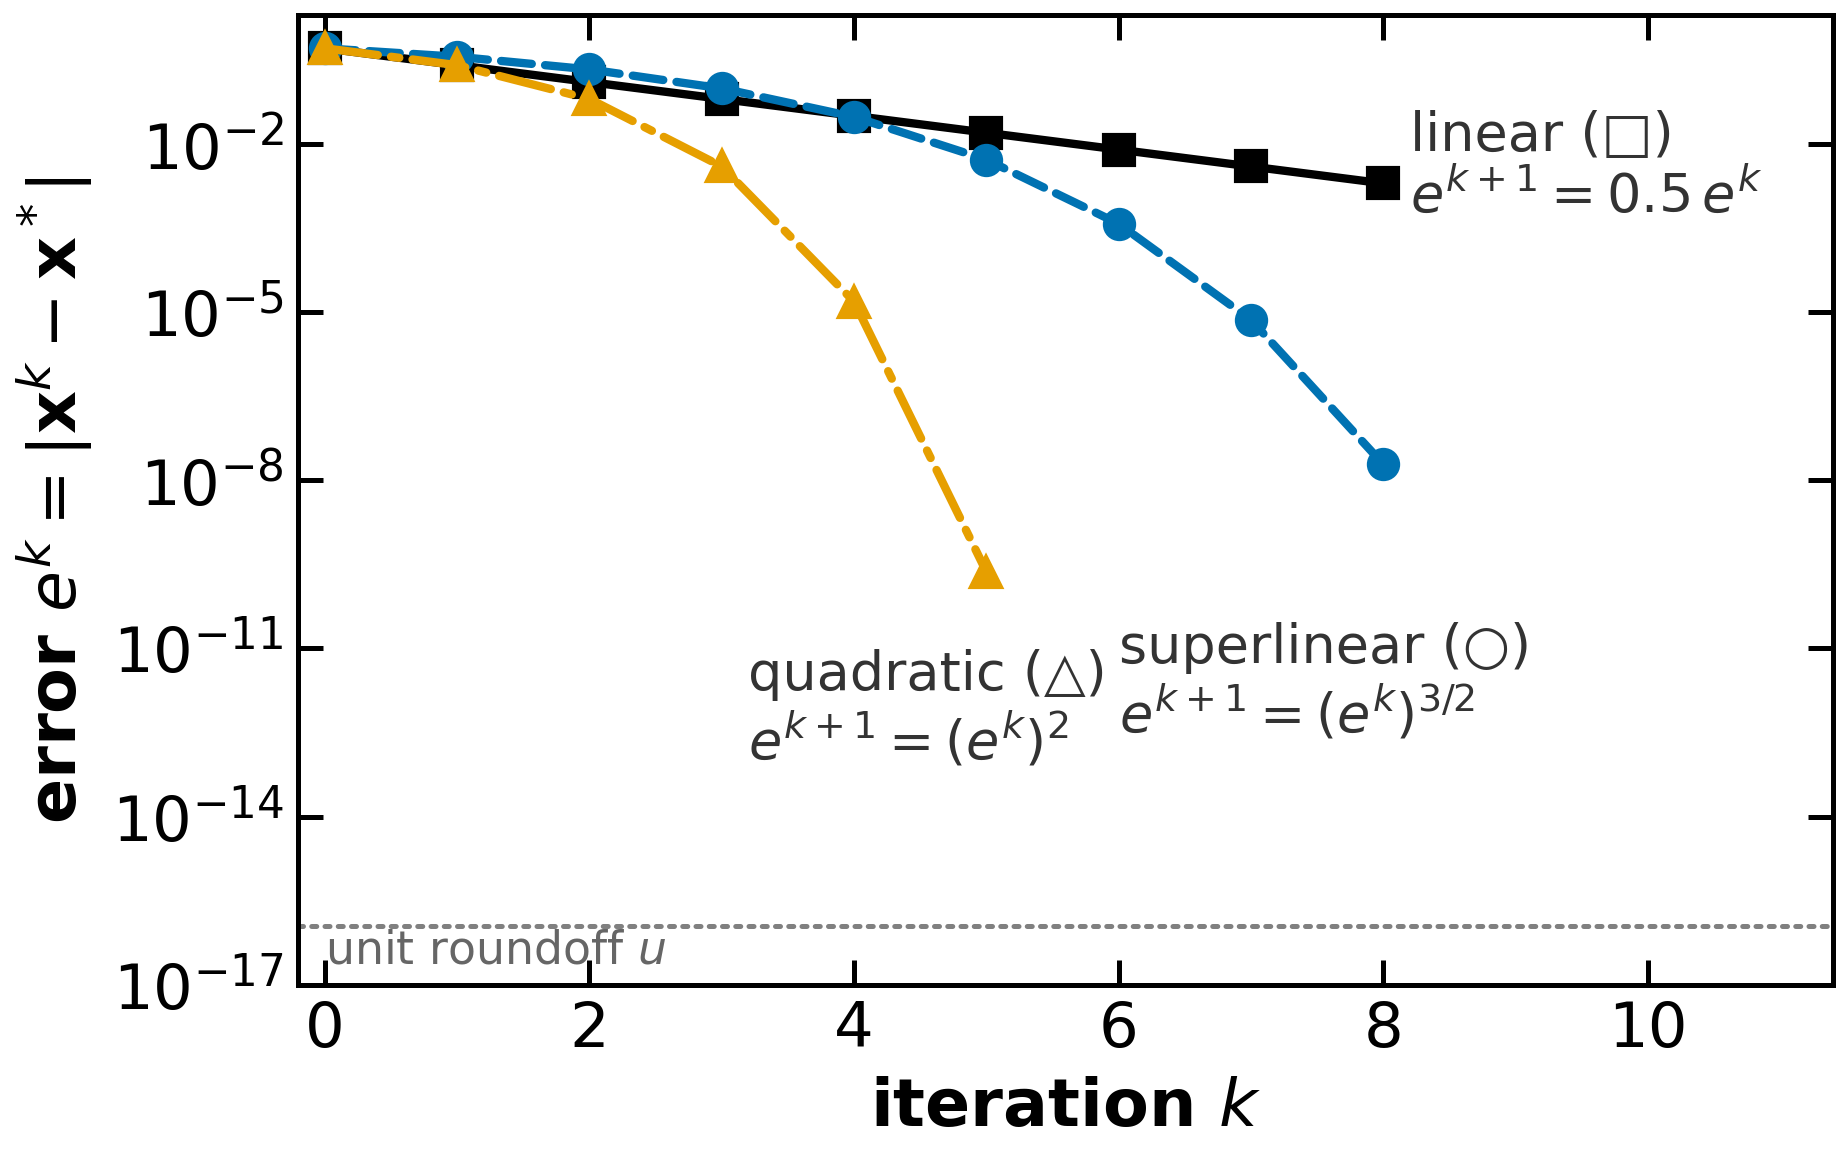
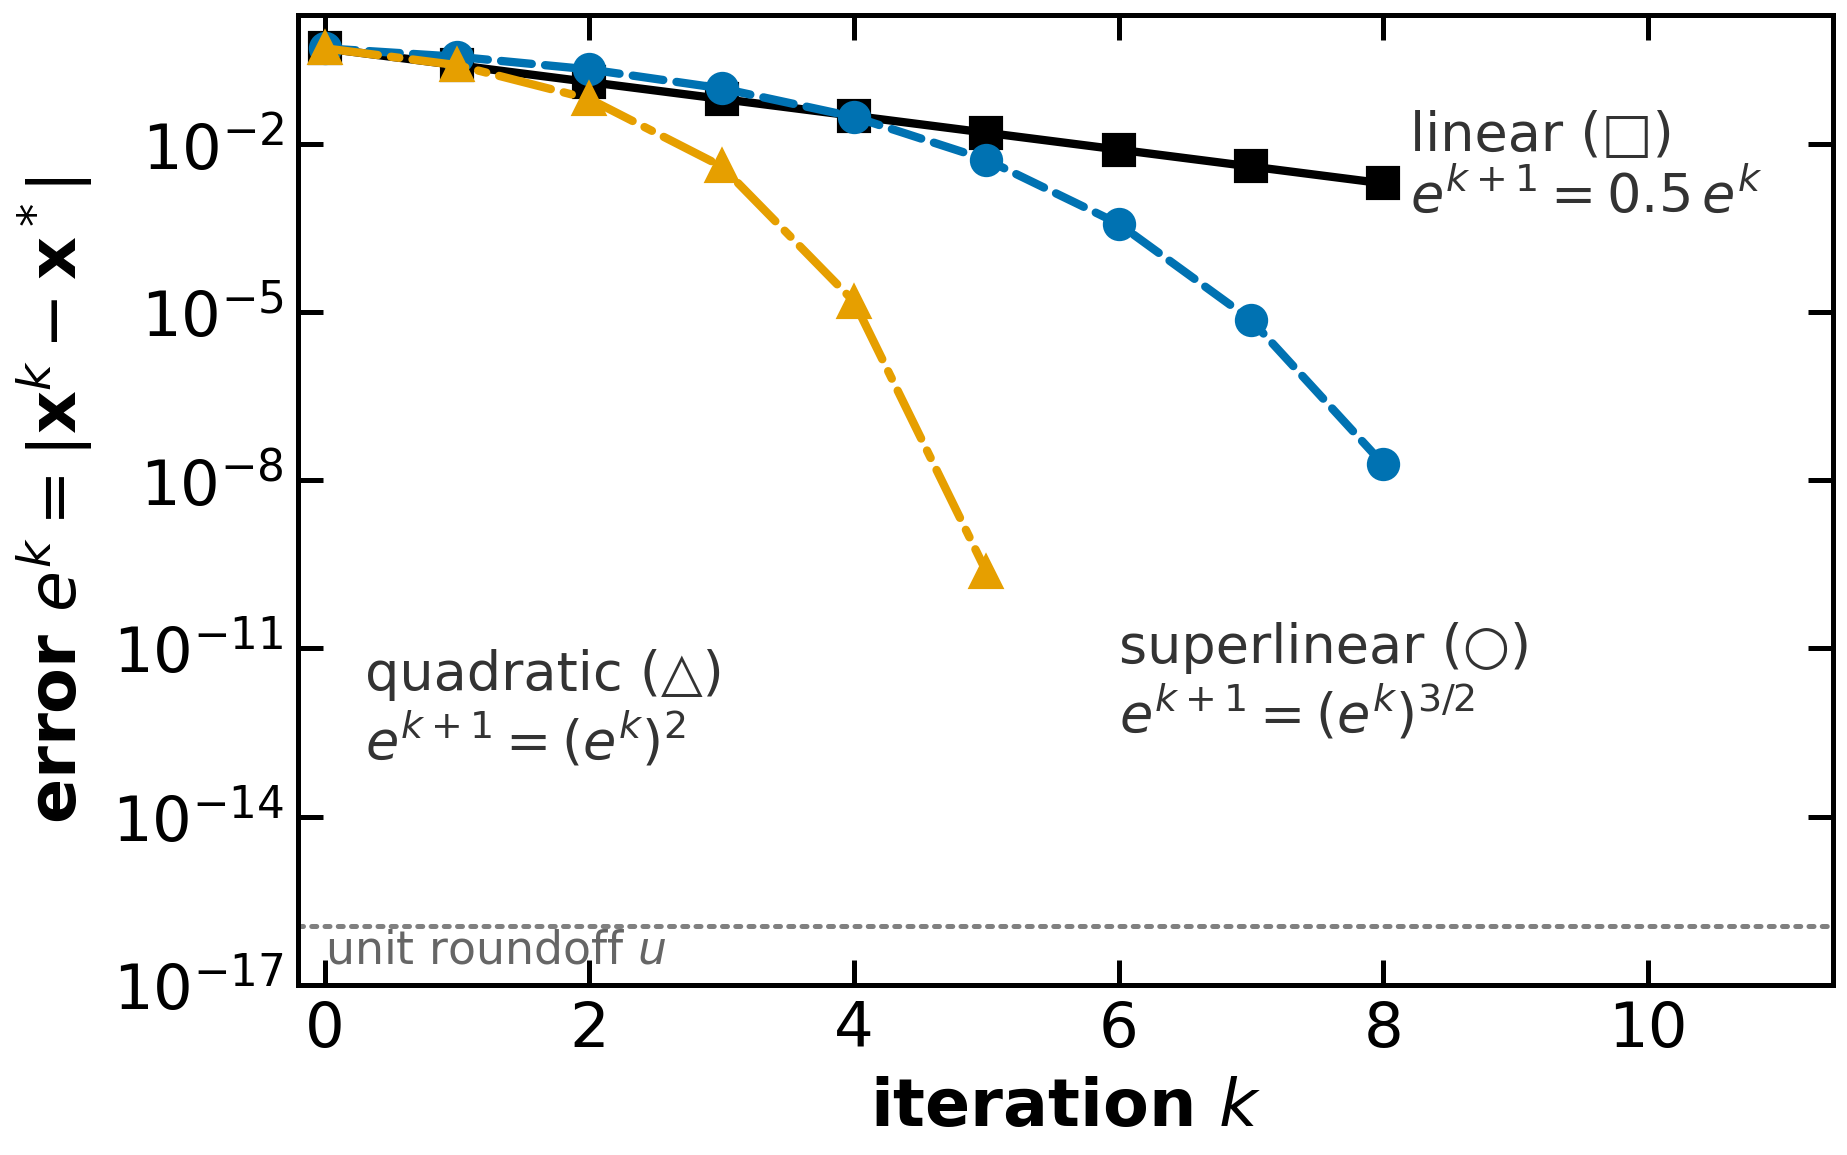
convergence-rates: move quadratic label clear of the superlinear one

Changed region(s): [[0.1852, 0.561, 0.5864, 0.6545]]

diff --git a/figures/plots/convergence-rates.py b/figures/plots/convergence-rates.py
@@ -56,7 +56,7 @@ def make_figure():
                 color="0.2", va="center")
     label_curve(ax, 6.0, 3e-11, "superlinear (○)\n" r"$e^{k+1} = (e^k)^{3/2}$",
                 color="0.2", va="top")
-    label_curve(ax, 3.2, 1e-11, "quadratic (△)\n" r"$e^{k+1} = (e^k)^2$",
+    label_curve(ax, 0.3, 1e-11, "quadratic (△)\n" r"$e^{k+1} = (e^k)^2$",
                 color="0.2", va="top")
     label_curve(ax, 0.0, 1.6e-17, r"unit roundoff $u$", color="0.4",
                 va="bottom", fontsize=11)
